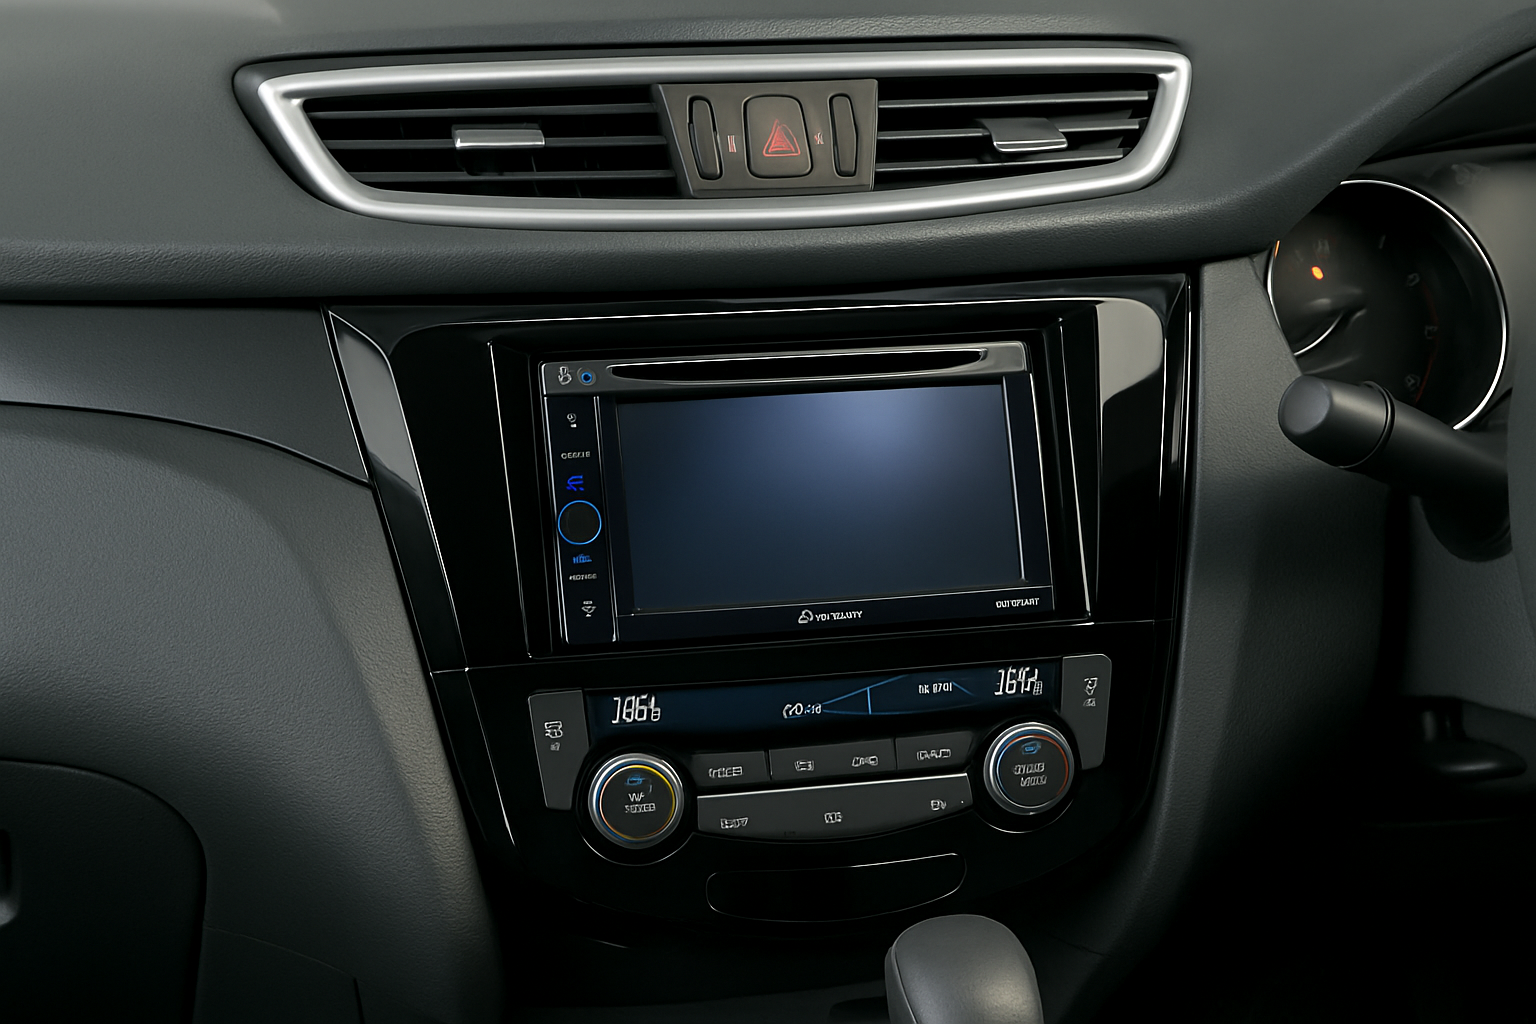
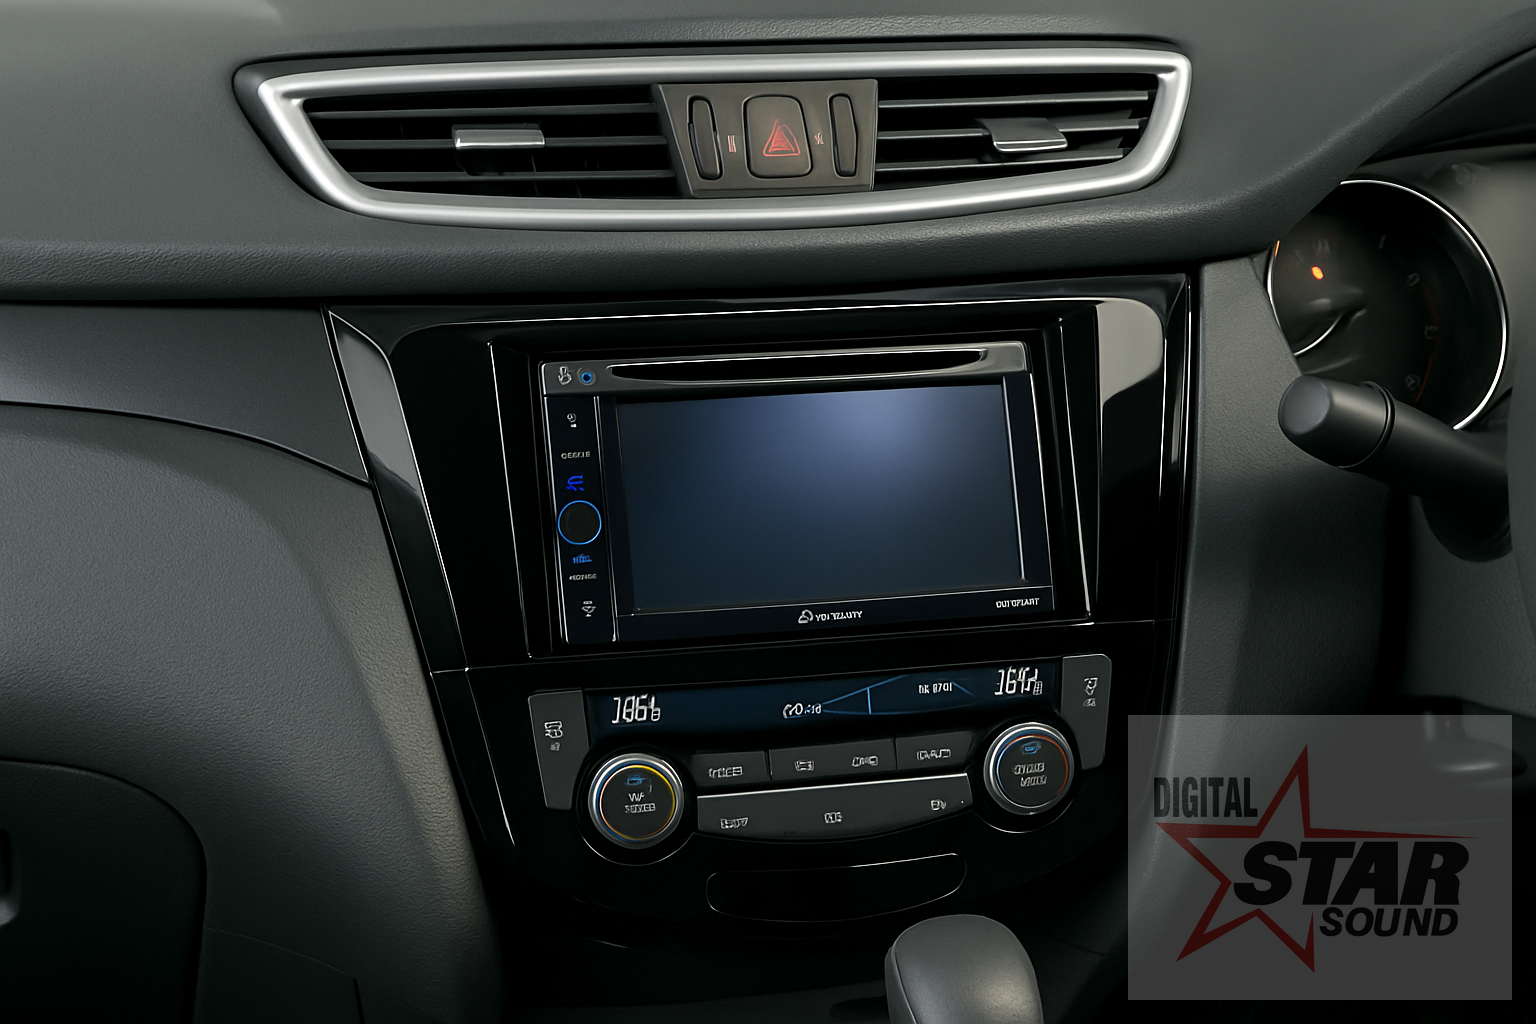
changes

Changed region(s): [[0.7188, 0.6875, 1.0, 1.0]]

diff --git a/convert_watermark_colors.py b/convert_watermark_colors.py
@@ -1,0 +1,180 @@
+"""
+Watermark Color Converter
+=========================
+Uses the OpenAI gpt-image-1 images.edit API to change the black parts of the
+Digital StarSound watermark logo to white, producing a version suitable for
+placement on dark backgrounds.
+
+Default input:  starsound/watermark.png
+Default output: starsound/watermark_white.png
+
+Usage:
+  python convert_watermark_colors.py
+  python convert_watermark_colors.py --input starsound/watermark.png --output starsound/watermark_white.png
+
+Environment:
+  Set OPENAI_API_KEY in your environment or in a .env file.
+"""
+
+import argparse
+import base64
+import logging
+import os
+import sys
+from pathlib import Path
+
+try:
+    from openai import OpenAI
+except ImportError:
+    print("ERROR: openai package not installed.  Run: pip install openai")
+    sys.exit(1)
+
+try:
+    from PIL import Image
+except ImportError:
+    print("ERROR: Pillow package not installed.  Run: pip install Pillow")
+    sys.exit(1)
+
+logging.basicConfig(
+    level=logging.INFO,
+    format="%(asctime)s [%(levelname)s] %(message)s",
+)
+logger = logging.getLogger(__name__)
+
+# ─── Configuration ──────────────────────────────────────────────────────
+IMAGE_MODEL = "gpt-image-1"
+DEFAULT_INPUT = Path(__file__).parent / "starsound" / "watermark.png"
+DEFAULT_OUTPUT = Path(__file__).parent / "starsound" / "watermark_white.png"
+
+COLOR_CONVERSION_PROMPT = (
+    "This is a logo image for 'Digital StarSound'.\n\n"
+    "TASK: Change all BLACK colored areas in this logo to WHITE.\n\n"
+    "SPECIFIC RULES:\n"
+    "- Convert every black or near-black pixel (text, outlines, fills) to pure white.\n"
+    "- Keep all RED areas exactly as they are — do NOT change the red color.\n"
+    "- Preserve the transparent or white background exactly as-is.\n"
+    "- Do NOT alter the shape, layout, size, or any other aspect of the logo.\n"
+    "- The result should be identical to the input except that black has become white.\n"
+    "- Maintain sharp, clean edges — do not blur or smooth the logo.\n"
+    "- Output the image with a transparent background (PNG format)."
+)
+
+
+# ─── Helpers ────────────────────────────────────────────────────────────
+def load_env():
+    """Load .env file if present."""
+    env_file = Path(__file__).parent / ".env"
+    if env_file.exists():
+        for line in env_file.read_text().splitlines():
+            line = line.strip()
+            if line and not line.startswith("#") and "=" in line:
+                key, _, value = line.partition("=")
+                os.environ.setdefault(key.strip(), value.strip().strip("'\""))
+
+
+def get_client() -> OpenAI:
+    load_env()
+    api_key = os.environ.get("OPENAI_API_KEY")
+    if not api_key:
+        logger.error("OPENAI_API_KEY not set. Set it in your environment or .env file.")
+        sys.exit(1)
+    return OpenAI(api_key=api_key)
+
+
+def ensure_png_rgba(image_path: Path) -> Path:
+    """
+    gpt-image-1 images.edit requires a PNG with an alpha channel.
+    If the source file is not RGBA PNG, convert it and return the temp path.
+    """
+    with Image.open(image_path) as img:
+        if image_path.suffix.lower() == ".png" and img.mode == "RGBA":
+            return image_path  # already suitable
+
+        rgba = img.convert("RGBA")
+        tmp = image_path.with_suffix(".tmp_rgba.png")
+        rgba.save(tmp)
+        logger.info("Converted source to RGBA PNG: %s", tmp)
+        return tmp
+
+
+# ─── API call ───────────────────────────────────────────────────────────
+def convert_colors_via_edit(client: OpenAI, image_path: Path) -> bytes | None:
+    """
+    Send the logo to gpt-image-1 images.edit and ask it to swap black → white.
+    Returns raw PNG bytes on success, or None on failure.
+    """
+    rgba_path = ensure_png_rgba(image_path)
+    try:
+        with open(rgba_path, "rb") as fh:
+            result = client.images.edit(
+                model=IMAGE_MODEL,
+                image=[fh],
+                prompt=COLOR_CONVERSION_PROMPT,
+                n=1,
+                size="1024x1024",
+            )
+    except Exception as e:
+        logger.error("images.edit failed: %s", e)
+        return None
+    finally:
+        # Clean up temp file if we created one
+        if rgba_path != image_path and rgba_path.exists():
+            rgba_path.unlink()
+
+    if result.data and len(result.data) > 0:
+        entry = result.data[0]
+        if hasattr(entry, "b64_json") and entry.b64_json:
+            return base64.b64decode(entry.b64_json)
+        if hasattr(entry, "url") and entry.url:
+            import requests as _req
+            return _req.get(entry.url, timeout=60).content
+
+    logger.error("No image data returned by the API.")
+    return None
+
+
+# ─── Main ───────────────────────────────────────────────────────────────
+def run(input_path: Path, output_path: Path) -> Path | None:
+    if not input_path.exists():
+        logger.error("Input image not found: %s", input_path)
+        sys.exit(1)
+
+    logger.info("Input : %s", input_path)
+    logger.info("Output: %s", output_path)
+
+    client = get_client()
+    logger.info("Sending logo to OpenAI gpt-image-1 for color conversion…")
+
+    image_bytes = convert_colors_via_edit(client, input_path)
+    if not image_bytes:
+        logger.error("Color conversion failed — no image data returned.")
+        return None
+
+    output_path.parent.mkdir(parents=True, exist_ok=True)
+    output_path.write_bytes(image_bytes)
+    logger.info("Saved white-logo version: %s", output_path)
+    return output_path
+
+
+def main():
+    parser = argparse.ArgumentParser(
+        description="Change black areas of the StarSound watermark logo to white using OpenAI gpt-image-1.",
+    )
+    parser.add_argument(
+        "--input",
+        type=Path,
+        default=DEFAULT_INPUT,
+        help=f"Path to the source watermark PNG (default: {DEFAULT_INPUT})",
+    )
+    parser.add_argument(
+        "--output",
+        type=Path,
+        default=DEFAULT_OUTPUT,
+        help=f"Path to save the converted logo (default: {DEFAULT_OUTPUT})",
+    )
+    args = parser.parse_args()
+    run(args.input, args.output)
+
+
+if __name__ == "__main__":
+    main()
